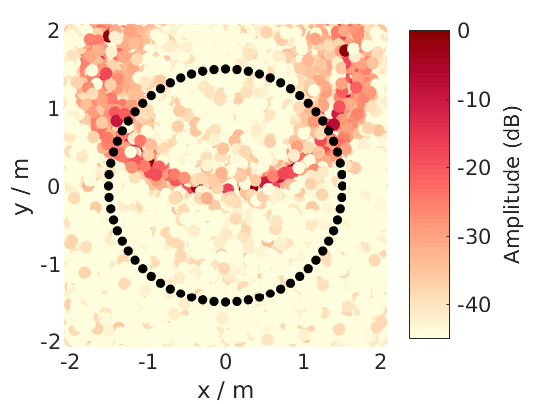
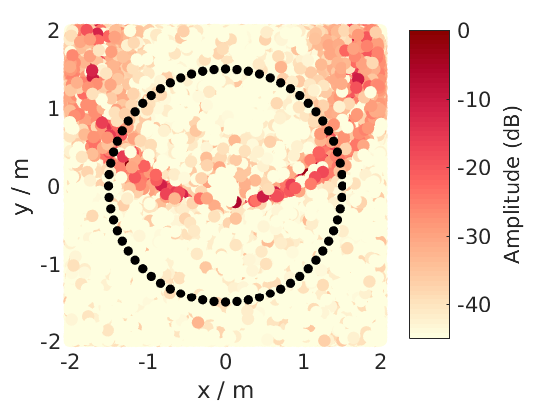
Update t in samples to seconds and plot

diff --git a/doc/img/generate_plots.m b/doc/img/generate_plots.m
@@ -234,7 +234,7 @@ conf.plot.usedb = true;
 conf.dimension = '2.5D';
 conf.secondary_sources.number = 64;
 conf.secondary_sources.geometry = 'circle';
-sound_field_imp_nfchoa(X,Y,0,[0 2 0],'ps',200,conf);
+sound_field_imp_nfchoa(X,Y,0,[0 2 0],'ps',0.005,conf);
 axis([-2 2 -2 2]);
 xticks(-2:1:2); yticks(-2:1:2);
 print_png('sound_field_imp_nfchoa_25d_dB_custom_grid.png');
